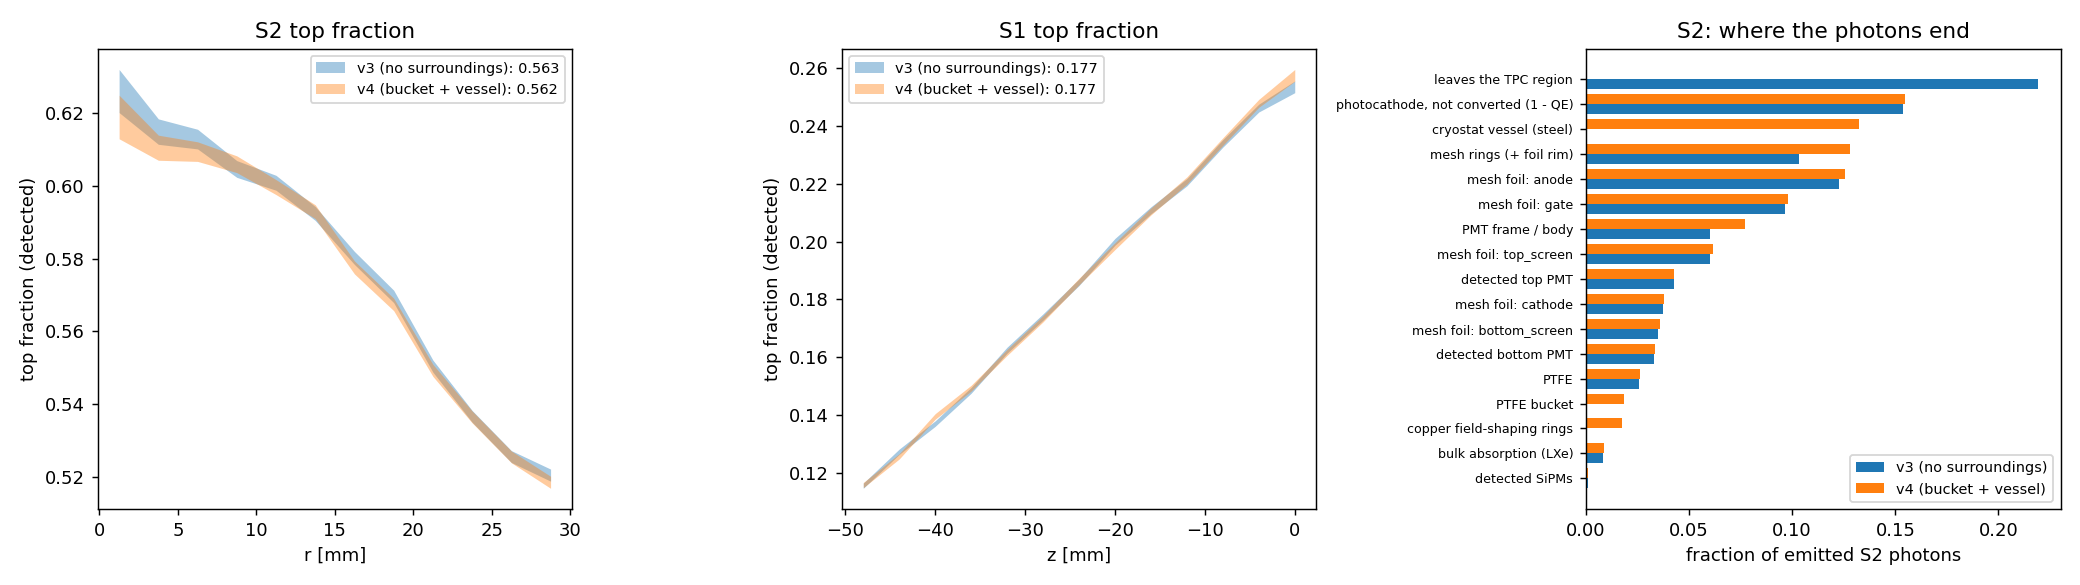
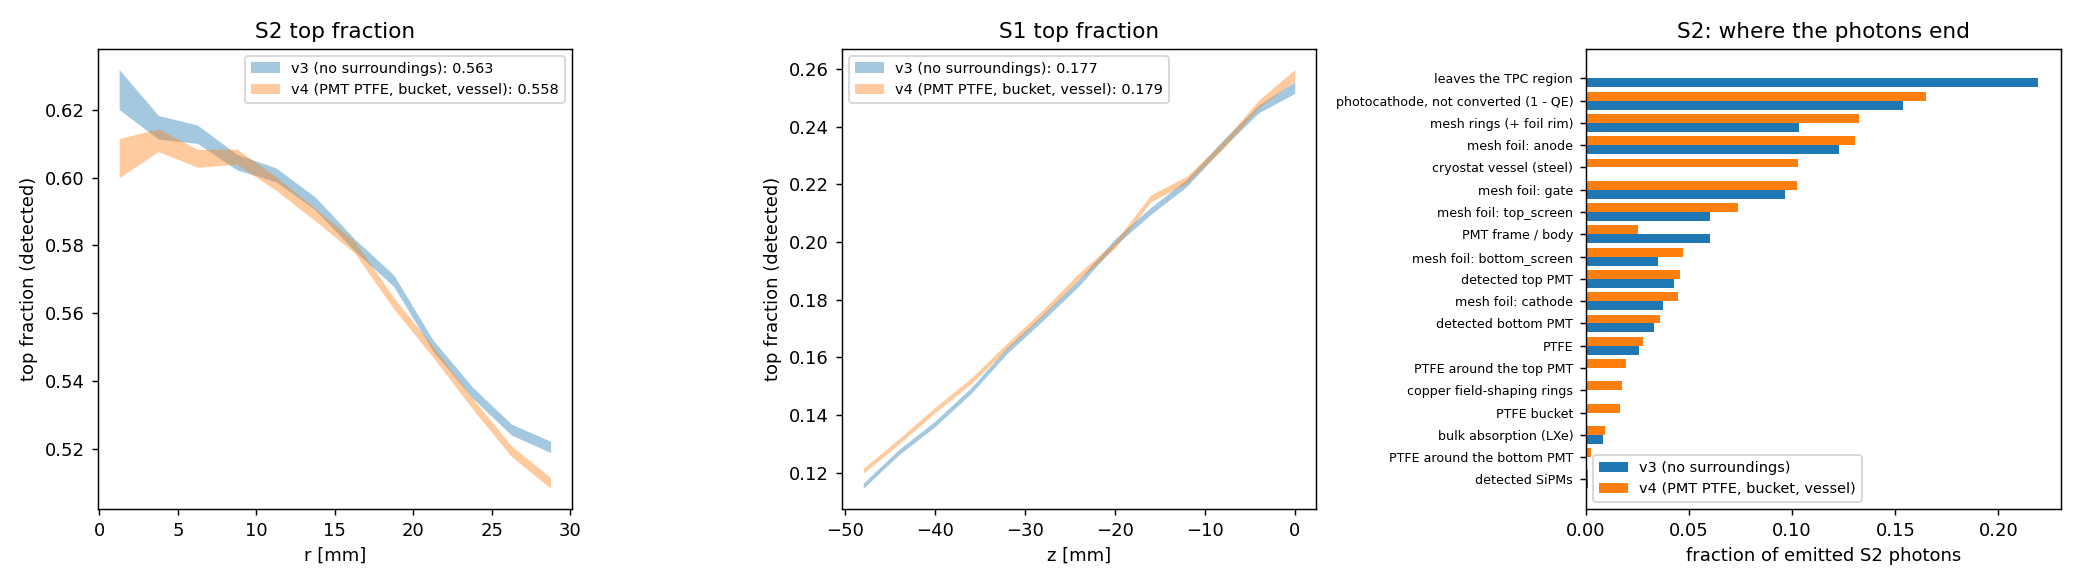
Geometry v4: PTFE holders around both PMTs (plate + slot block, out to the mesh-ring radius)
Drawings PTFE_between_TS_PMT / PTFE_between_BS_PMT: plate from the screen ring to the window face with a 50 mm
square opening, block around the PMT (slot 56 top, 56.9 bottom). One-point check: +7-9 % light on both PMTs,
S2 top fraction -0.005, shapes unchanged.

diff --git a/src/XamsGeometry.cc b/src/XamsGeometry.cc
@@ -284,6 +284,7 @@ G4VPhysicalVolume* DetectorConstruction::BuildXams() {
   auto* rimL = new G4LogicalVolume(new G4Tubs("MeshFoilRim", rRingIn, rFoil, 0.5 * tFoil, 0., 360. * deg),
                                    StainlessSteel(), "MeshRing");
   double zGate = 0., zCath = -51.8 * mm;
+  std::map<std::string, std::pair<double, double>> assembly;  // z extent of each mesh assembly (foil + ring body)
   for (const auto& m : j["meshes"]) {
     const std::string name = m["name"].get<std::string>();
     const double z = m["z_mm"].get<double>() * mm;
@@ -302,6 +303,7 @@ G4VPhysicalVolume* DetectorConstruction::BuildXams() {
            << " holes, " << ang << " deg" << G4endl;
     if (name == "gate") zGate = z;
     if (name == "cathode") zCath = z;
+    assembly[name] = {lo, hi};
   }
 
   // PTFE cylinder (drawing "PTFE_cylinder.pdf"): in the bores of the gate and cathode rings, from z_top down over its
@@ -363,6 +365,42 @@ G4VPhysicalVolume* DetectorConstruction::BuildXams() {
     const bool top = name == "top";
     auto [mL, mC] = region(wz);
     BuildPmt(mL, top ? gasP : liqP, top ? "TopPMT" : "BottomPMT", wz - mC, top, top);
+  }
+
+  // PTFE holders of the PMTs (config "pmt_ptfe"; drawings "PTFE_between_TS_PMT.pdf", "PTFE_between_BS_PMT.pdf"): a plate
+  // from the screen-ring assembly to the PMT window face with a square opening in front of the photocathode, and a
+  // block around the PMT (square slot = PMT outline) from the window face to the back of the PMT; out to the mesh-ring
+  // outer radius. Logical name PTFE_gas (top, in the gas) / PTFE (bottom, in the liquid) for the surfaces.
+  if (j.contains("pmt_ptfe")) {
+    const auto& h = j["pmt_ptfe"];
+    const double rO = 0.5 * h["outer_diameter_mm"].get<double>() * mm;
+    const double ap = h["aperture_square_mm"].get<double>() * mm;
+    const double height = c.Num("pmt_common/height_mm", 14.8) * mm;
+    for (const auto& pm : j["pmts"]) {
+      const std::string name = pm["name"].get<std::string>();
+      const bool top = name == "top";
+      const double wz = pm["window_z_mm"].get<double>() * mm;
+      const auto& sl = h["slot_square_mm"];
+      const double slot = (sl.is_object() ? sl[name] : sl).get<double>() * mm;
+      const auto [alo, ahi] = assembly.at(top ? "top_screen" : "bottom_screen");
+      const double pLo = top ? ahi : wz, pHi = top ? wz : alo;     // plate
+      const double bLo = top ? wz : wz - height, bHi = top ? wz + height : wz;  // block around the PMT
+      if (pHi - pLo < 0.01 * mm)
+        G4Exception("BuildXams", "GEOM040", FatalException, ("no room for the PTFE plate in front of the " + name + " PMT").c_str());
+      const std::string ln = top ? "PTFE_gas" : "PTFE";
+      auto [mL, mC] = region(wz);
+      auto place = [&](const std::string& part, double lo, double hi, double square) {
+        const double hz = 0.5 * (hi - lo);
+        auto* sol = new G4SubtractionSolid("PTFE_" + name + "_" + part, new G4Tubs("o", 0., rO, hz, 0., 360. * deg),
+                                           new G4Box("i", 0.5 * square, 0.5 * square, hz + 1. * mm));
+        new G4PVPlacement(nullptr, G4ThreeVector(0, 0, 0.5 * (lo + hi) - mC), new G4LogicalVolume(sol, Ptfe(), ln),
+                          "PTFE_" + name + "_" + part, mL, false, 0, kCheck);
+        G4cout << "PTFE " << name << " PMT " << part << ": z " << lo / mm << " to " << hi / mm << " mm, r < " << rO / mm
+               << " mm, square opening " << square / mm << " mm" << G4endl;
+      };
+      place("plate", pLo, pHi, ap);
+      place("surround", bLo, bHi, slot);
+    }
   }
 
   // SiPMs on the inside of the PTFE cylinder, looking inward (sensor ids 6, 7)

diff --git a/tools/surroundings_compare.py b/tools/surroundings_compare.py
@@ -1,5 +1,5 @@
 #!/usr/bin/env python3
-"""Geometry v4 (TPC in the PTFE bucket in the steel vessel) vs v3 (absorbing world around the TPC): one parameter point
+"""Geometry v4 (PTFE holders around the PMTs; TPC in the PTFE bucket in the steel vessel) vs v3 (absorbing world around the TPC): one parameter point
 (level 4 mm, PTFE R 0.95, specular 0.1, steel R 0.35, Rayleigh 45 cm) for s2 and s1. v3 = that point of the step-8 fit
 scans (fit_s2, fit_s1), v4 = scans/check_v4_s2.yaml, check_v4_s1.yaml.
 
@@ -42,7 +42,7 @@ def main():
     summary = {}
     fig, ax = plt.subplots(1, 3, figsize=(16, 4.5))
     for src, a in (("s2", ax[0]), ("s1", ax[1])):
-        pts = {"v3 (no surroundings)": v3_point(f"fit_{src}"), "v4 (bucket + vessel)": load(f"check_v4_{src}")["points"][0]}
+        pts = {"v3 (no surroundings)": v3_point(f"fit_{src}"), "v4 (PMT PTFE, bucket, vessel)": load(f"check_v4_{src}")["points"][0]}
         summary[src] = {}
         for i, (lab, p) in enumerate(pts.items()):
             rec, n = p["rec"], p["n_photons"]

diff --git a/tools/make_config.py b/tools/make_config.py
@@ -86,7 +86,7 @@ def main():
         print("MISSING (fill in geometry.yaml):", *missing, sep="\n  ")
         return 1
 
-    cfg = {k: g[k] for k in ("mesh_common", "meshes", "ptfe_cylinder", "field_shaping_rings", "pmt_common", "pmts", "sipms",
+    cfg = {k: g[k] for k in ("mesh_common", "meshes", "ptfe_cylinder", "field_shaping_rings", "pmt_common", "pmts", "sipms", "pmt_ptfe",
                                 "ptfe_bucket", "cryostat_vessel") if k in g}
     hp = g["mesh_common"].get("hole_pattern_file")
     if hp:

diff --git a/tools/plot_section.py b/tools/plot_section.py
@@ -19,7 +19,7 @@ STYLE = [
     (r"Foil$", "#202020", "mesh foil (steel)"),
     (r"^CopperRing$", "#c8743a", "copper field-shaping rings"),
     (r"Ring$|Rim$", "#7a7f8c", "mesh rings (+ foil rim)"),
-    (r"^PTFE$|^PTFE_gas$", "#e8d7a8", "PTFE"),
+    (r"^PTFE", "#e8d7a8", "PTFE"),
     (r"Window$", "#8fd3ff", "PMT window (silica)"),
     (r"Sector$|Cathode$", "#ff9a1f", "photocathode"),
     (r"Frame$|Body$", "#5a4a6a", "PMT frame / body (absorber)"),

diff --git a/tools/step6_results.py b/tools/step6_results.py
@@ -90,6 +90,10 @@ def category(code, vol):
         return "mesh rings (+ foil rim)"
     if vol == "PTFE":
         return "PTFE"
+    if vol.startswith("PTFE_top"):
+        return "PTFE around the top PMT"
+    if vol.startswith("PTFE_bottom"):
+        return "PTFE around the bottom PMT"
     if vol == "Bucket":
         return "PTFE bucket"
     if vol == "Vessel":

diff --git a/results/surroundings/README.md b/results/surroundings/README.md
@@ -1,8 +1,11 @@
-# Surroundings: PTFE bucket and cryostat vessel (geometry v4, 2026-10-06)
+# Surroundings: PTFE around the PMTs, PTFE bucket, cryostat vessel (geometry v4, 2026-10-06)
 
-Geometry v4 puts the TPC in the PTFE bucket (drawing `PTFE_bucket.pdf`: Ø112/132, 129 mm, weir 1.78 mm below the rim
-sets the liquid level) inside the closed stainless-steel vessel (`Inner_cryostat_vessel.pdf`: Ø146.86/152.4, 305 mm),
-gas xenon around the bucket. v3 had an absorbing world around the TPC.
+Geometry v4 adds
+- PTFE around both PMTs (drawings `PTFE_between_TS_PMT.pdf`, `PTFE_between_BS_PMT.pdf`): plate between screen ring and
+  window (50 mm square opening) + block around the PMT (slot top 56 / bottom 56.9 mm), out to r = 46.3 mm;
+- the PTFE bucket (`PTFE_bucket.pdf`: Ø112/132, 129 mm, weir 1.78 mm below the rim sets the liquid level);
+- the closed steel vessel (`Inner_cryostat_vessel.pdf`: Ø146.86/152.4, 305 mm), gas around the bucket.
+v3 had an absorbing world around the TPC.
 
 One parameter point (level 4 mm, PTFE R 0.95, specular 0.1, steel R 0.35, Rayleigh 45 cm); v3 = that point of the
 step-8 fit scans, v4 = `scans/check_v4_s2.yaml` / `check_v4_s1.yaml`; `python tools/surroundings_compare.py`.
@@ -10,11 +13,11 @@ step-8 fit scans, v4 = `scans/check_v4_s2.yaml` / `check_v4_s1.yaml`; `python to
 | | S2 top fraction | S2 LCE top / bottom | S1 top fraction | S1 LCE top / bottom |
 |---|---|---|---|---|
 | v3 | 0.5629 ± 0.0006 | 0.0426 / 0.0331 | 0.1767 ± 0.0003 | 0.0135 / 0.0628 |
-| v4 | 0.5617 ± 0.0006 | 0.0427 / 0.0334 | 0.1770 ± 0.0003 | 0.0135 / 0.0630 |
+| v4, bucket + vessel only | 0.5617 ± 0.0006 | 0.0427 / 0.0334 | 0.1770 ± 0.0003 | 0.0135 / 0.0630 |
+| v4 (+ PTFE around the PMTs) | 0.5584 ± 0.0006 | 0.0454 / 0.0359 | 0.1791 ± 0.0003 | 0.0147 / 0.0672 |
 
-The S2 light that left the TPC region in v3 (22 %) ends in v4 on the vessel (13 %), the outside of the mesh rings
-(+2.5 %), the PMT bodies (+1.7 %), the copper rings (1.8 %) and the bucket (1.9 %). Almost none comes back to the PMTs:
-the surroundings do not explain the missing light, and all v3 results stay valid. Not known (defaults): bucket bottom
-thickness (10 mm), vessel end thickness (2.77 mm), vessel bottom 10 mm below the bucket — irrelevant at this level.
+Bucket and vessel alone: < 1 % (light that leaves the TPC hardly comes back). The PTFE around the PMTs: +7–9 % light
+on both PMTs, top fraction −0.005 (S2) / +0.002 (S1), shapes unchanged. ~10 % of the S2 light still ends on the vessel.
+Not known (defaults): bucket bottom 10 mm, vessel ends 2.77 mm, vessel bottom 10 mm below the bucket.
 
 ![v4 vs v3](compare.png)

diff --git a/docs/geometry.md b/docs/geometry.md
@@ -12,6 +12,7 @@ Built by `src/XamsGeometry.cc`.
 
 | part | model |
 |---|---|
+| PTFE around the PMTs (v4) | top and bottom alike (drawings `PTFE_between_TS_PMT.pdf`, `PTFE_between_BS_PMT.pdf`, CAD picture: the PMT sits in the slot): a plate from the screen-ring assembly to the window face (2.8 mm of the 7 mm plate) with a 50 mm square opening, and a block around the PMT from the window face to its back with a square slot (top 56 = PMT outline, drawing 54; bottom 56.9); both out to r = 46.3 mm (mesh-ring outer radius) |
 | PTFE bucket (v4) | Ø112 / Ø132 mm, 129 mm high (drawing `PTFE_bucket.pdf`); the weir 1.78 mm below the rim **sets the liquid level**, so the rim is at level + 1.78 mm (z = +5.78 mm at 4 mm) and the bucket moves with the simulated level. Bottom 10 mm (not on the drawing). The weir notch is not modelled |
 | liquid / gas | liquid xenon fills the bucket up to the level (2 / 3 / 4 mm above the gate; from z = −113 mm); gas above it and all around the bucket |
 | cryostat vessel (v4) | stainless steel, Ø146.86 / Ø152.4 mm, 305 mm (drawing `Inner_cryostat_vessel.pdf`), closed; ends 2.77 mm and inner bottom 10 mm below the bucket (both assumed); steel reflectivity, Lambertian |
@@ -43,10 +44,12 @@ the anode ring sits in the anode–top-screen gap; the copper rings are hidden b
 
 ## Effect of the surroundings (v4 vs v3)
 
-Bucket and vessel change nothing that matters (one parameter point, level 4 mm, `tools/surroundings_compare.py`,
-`results/surroundings/`): S2 top fraction 0.563 → 0.562, S1 0.177 → 0.177, light collection top +0.2 %, bottom +0.9 %.
-The 22 % of the S2 light that left the TPC region in v3 now ends on the vessel (13 %), the outside of the mesh rings and
-PMTs, the copper rings and the bucket (2 %); it hardly comes back. All results made with v3 stay valid.
+One parameter point (level 4 mm, PTFE R 0.95 / specular 0.1, steel R 0.35, Rayleigh 45 cm;
+`tools/surroundings_compare.py`, `results/surroundings/`). Bucket + vessel alone changed < 1 %; with the PTFE around
+the PMTs: S2 light collection top +6.6 %, bottom +8.5 %, S2 top fraction 0.563 → 0.558; S1 top +9 %, bottom +7 %, S1
+top fraction 0.177 → 0.179. The shapes (vs r, vs z) do not change. Still ~10 % of the S2 light ends on the vessel
+(it leaves sideways through the gate–anode and anode–top-screen gaps). The step-6/7/8 results were made with v3;
+the efficiency factors of the fit move by about these percentages.
 
 ![v4 vs v3](results/surroundings/compare.png)
 
